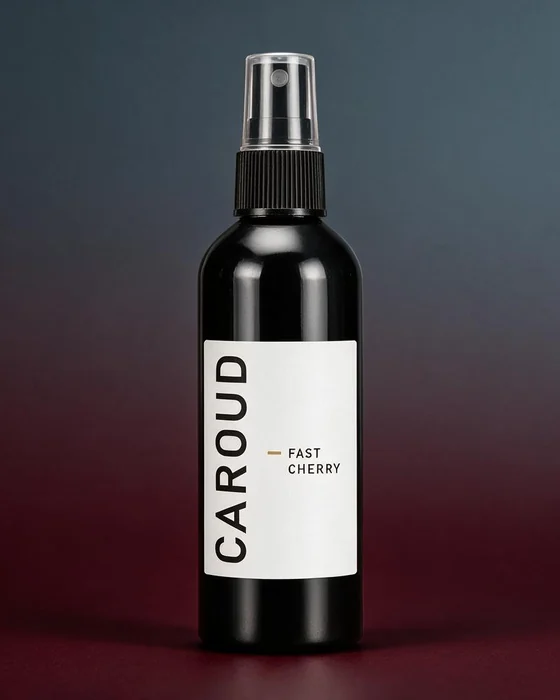
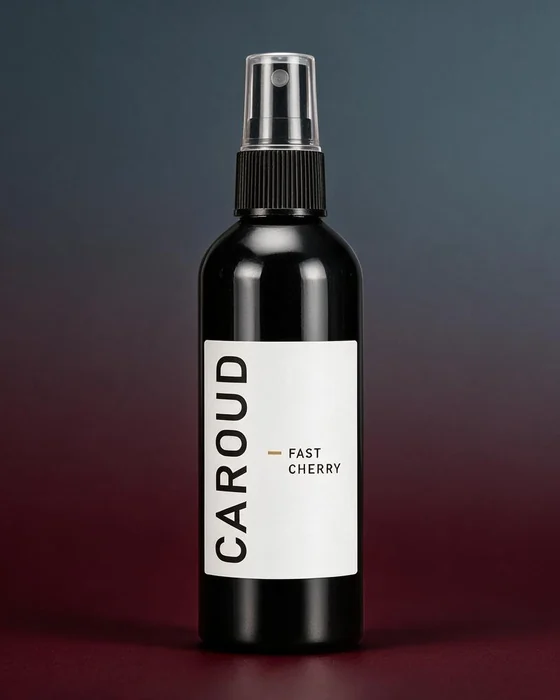
Sieben Duft-Karten: Flaschen wieder auf einer Hoehe (v78)
Claude-Session: https://claude.ai/code/session_01FWAFBrrQYUhS2XwshSf5J4

diff --git a/js/products.js b/js/products.js
@@ -16,7 +16,7 @@
 // Bilder: die gedruckten Etiketten, gerendert aus den Druck-PDFs
 // (img/produkte/<typ>-<duft>.webp). Ohne img zeichnet main.js die Ersatzgrafik.
 // Version an Bild-URLs, damit Browser nach Etikett-Updates nicht alte Bilder aus dem Cache zeigen
-const ASSET_V = "50";
+const ASSET_V = "51";
 
 const CATEGORIES = [
   { name: "Duftsprays", type: "spray", color: "#111111", img: "img/produkte/spray-pacific-cruise.webp?v=" + ASSET_V },

diff --git a/index.html b/index.html
@@ -521,7 +521,7 @@
   <!-- Toast -->
   <div class="toast" id="toast" hidden></div>
 
-  <script src="js/products.js?v=72"></script>
+  <script src="js/products.js?v=73"></script>
   <script src="js/main.js?v=66"></script>
 </body>
 </html>
